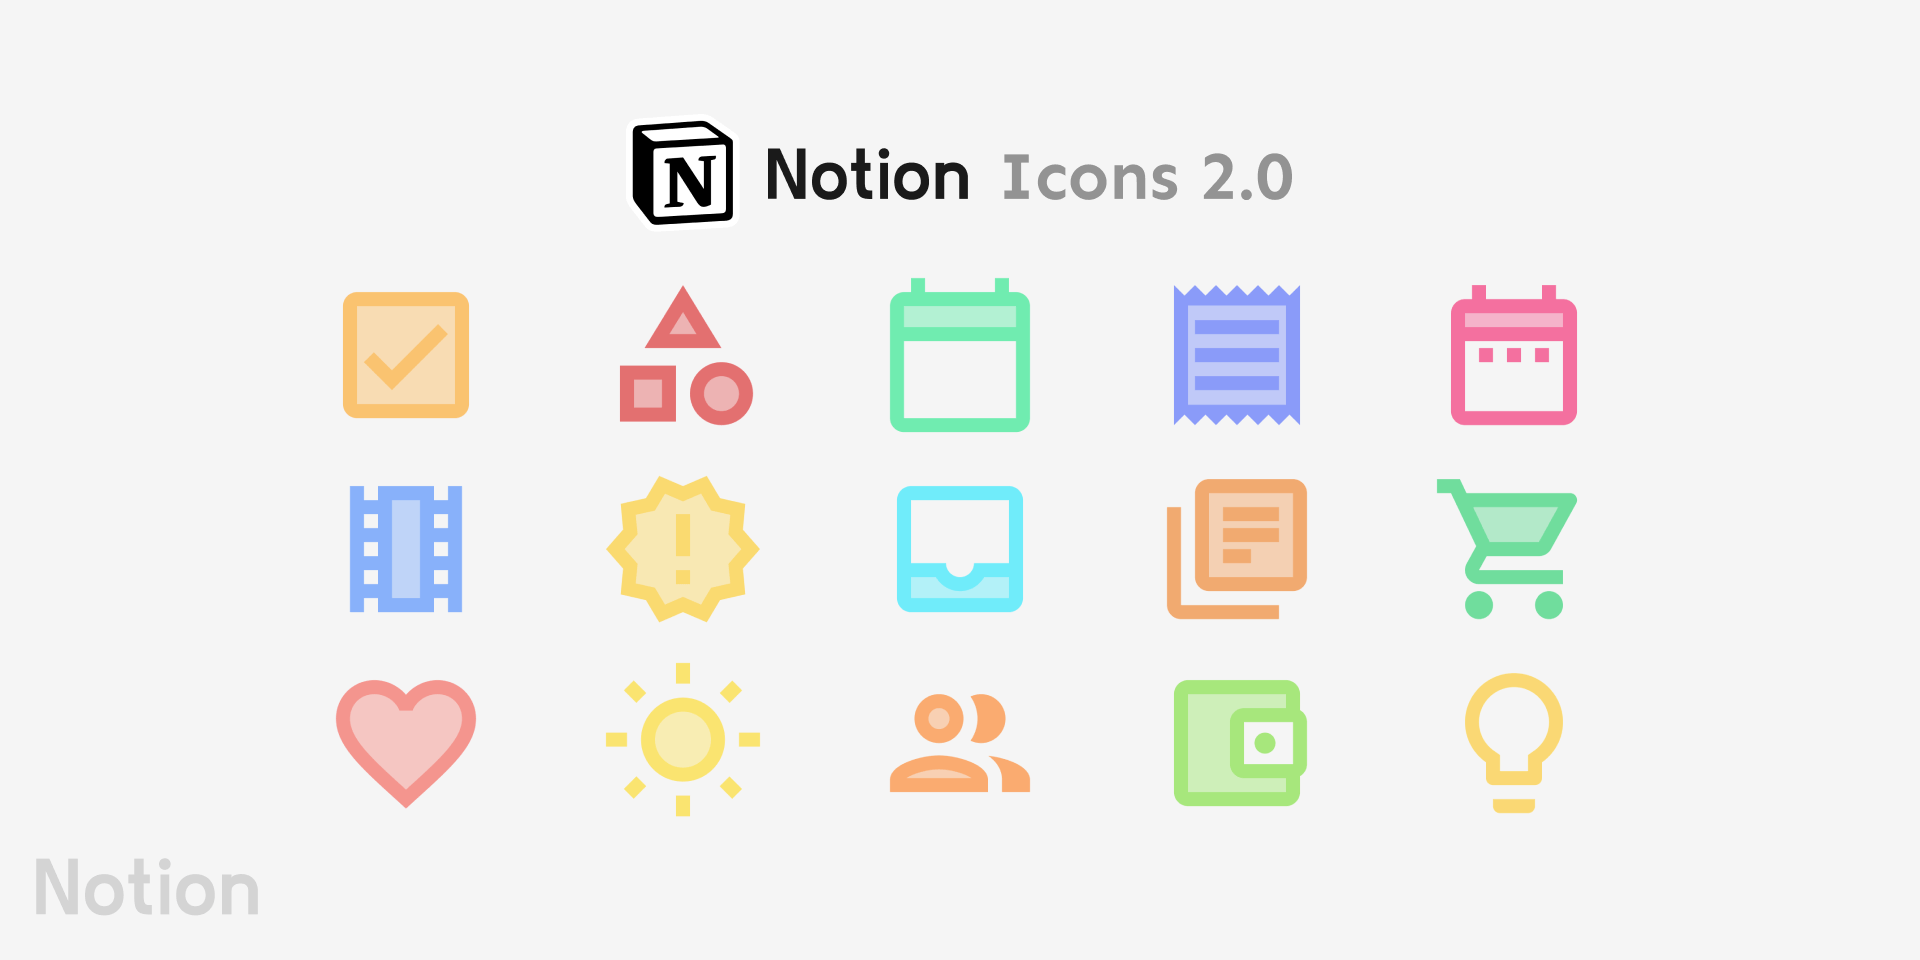
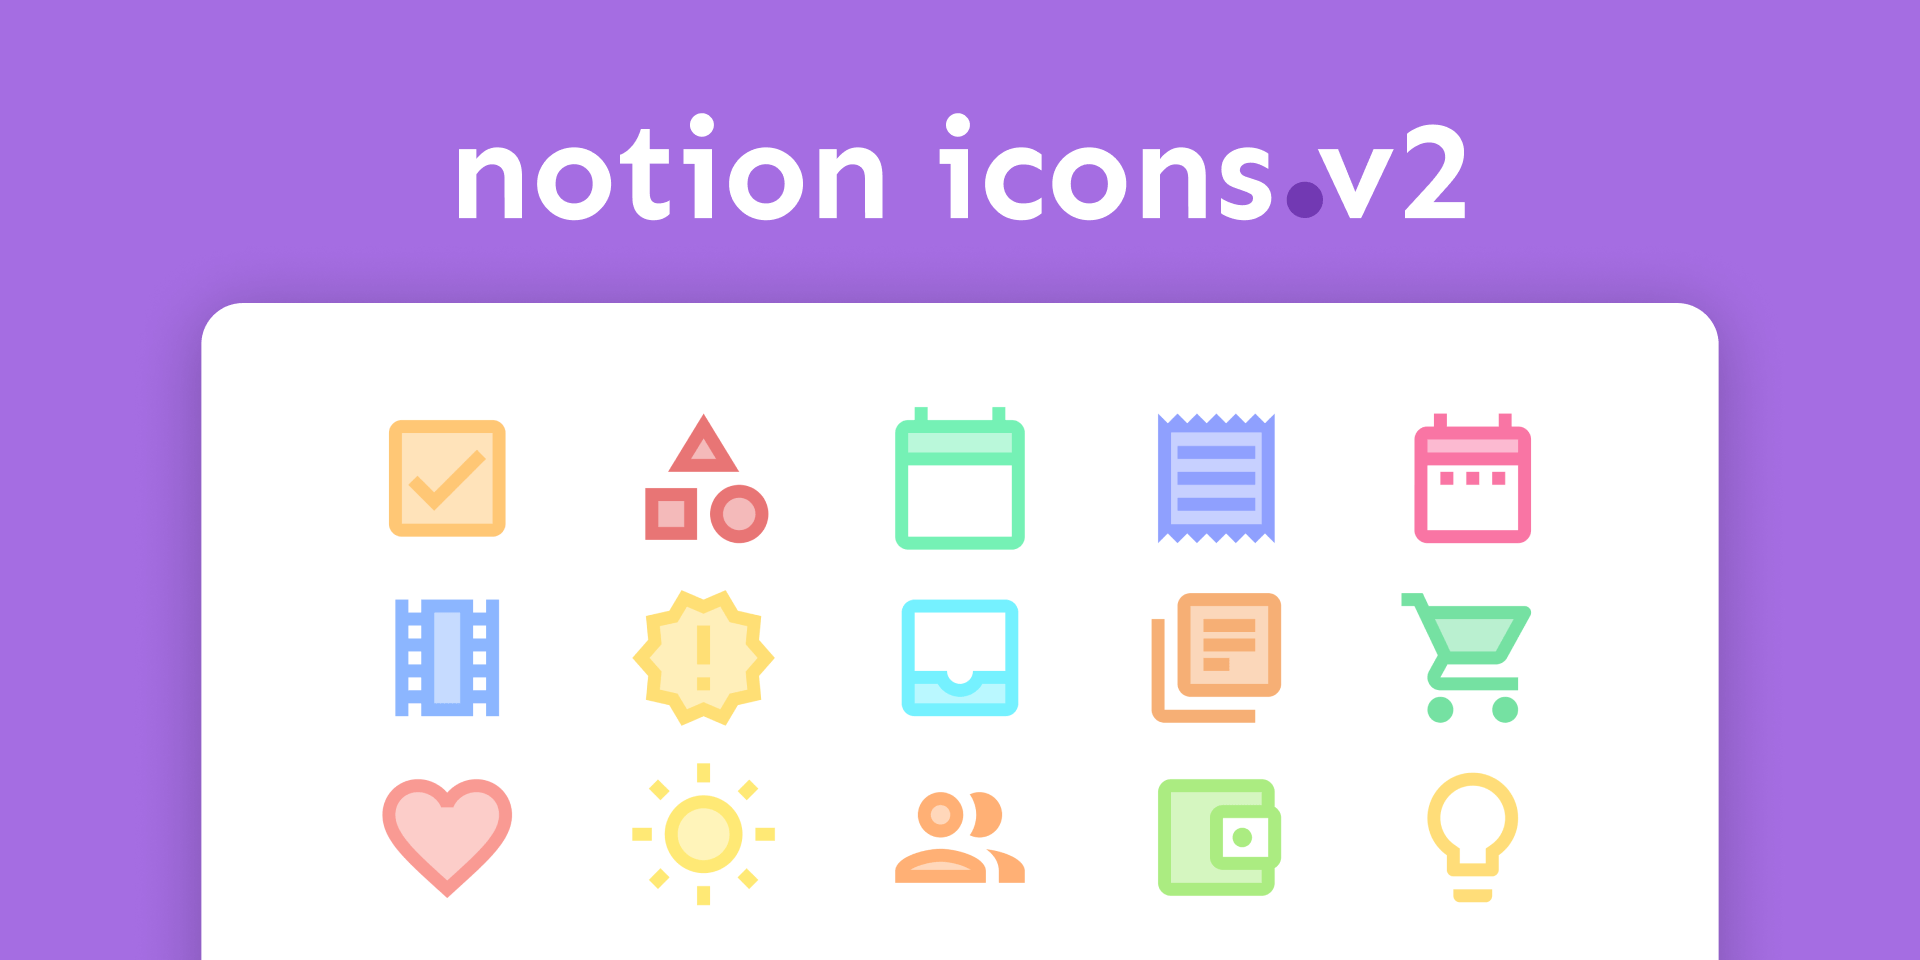
Microblog (#114)

diff --git a/_microblogs/notion-icons-v2-launched.md b/_microblogs/notion-icons-v2-launched.md
@@ -1,0 +1,20 @@
+---
+title: "Notion Icons v2 launched \U0001F389"
+date: 2021-08-16
+layout: microblog
+image: /Images/Blog/9998.png
+description: The new website is live. Now you can easily use my icons in Notion
+---
+
+![1](/Images/Blog/9998.png)
+
+The new website is live. Now you can easily use my icons in Notion.
+
+Thanks to all the testers who helped me make this website more awesome and easy to use.
+
+If you liked it, you can support me on Buy me a coffee.
+
+<p class="text-center">
+{% include elements/iconbtn.html link="https://notionv2.vyshnav.xyz/" text="Go to Website" icon="link" %}
+{% include elements/iconbtn.html link="https://www.buymeacoffee.com/vyshnav" text="Buy Me a Coffee" icon="coffee" %}
+</p>

diff --git a/_blogs/Notion Icons 2.0.md b/_blogs/Notion Icons 2.0.md
@@ -23,7 +23,7 @@ And guys it also supports Notion **dark mode**.
 
 
 <p class="text-center">
-{% include elements/iconbtn.html link="https://www.buymeacoffee.com/vyshnav/e/23521" text="Download Here" icon="download" %}
+{% include elements/iconbtn.html link="https://notionv2.vyshnav.xyz/" text="Go to Website" icon="link" %}
 {% include elements/iconbtn.html link="https://www.buymeacoffee.com/vyshnav" text="Buy Me a Coffee" icon="coffee" %}
 </p>
 
